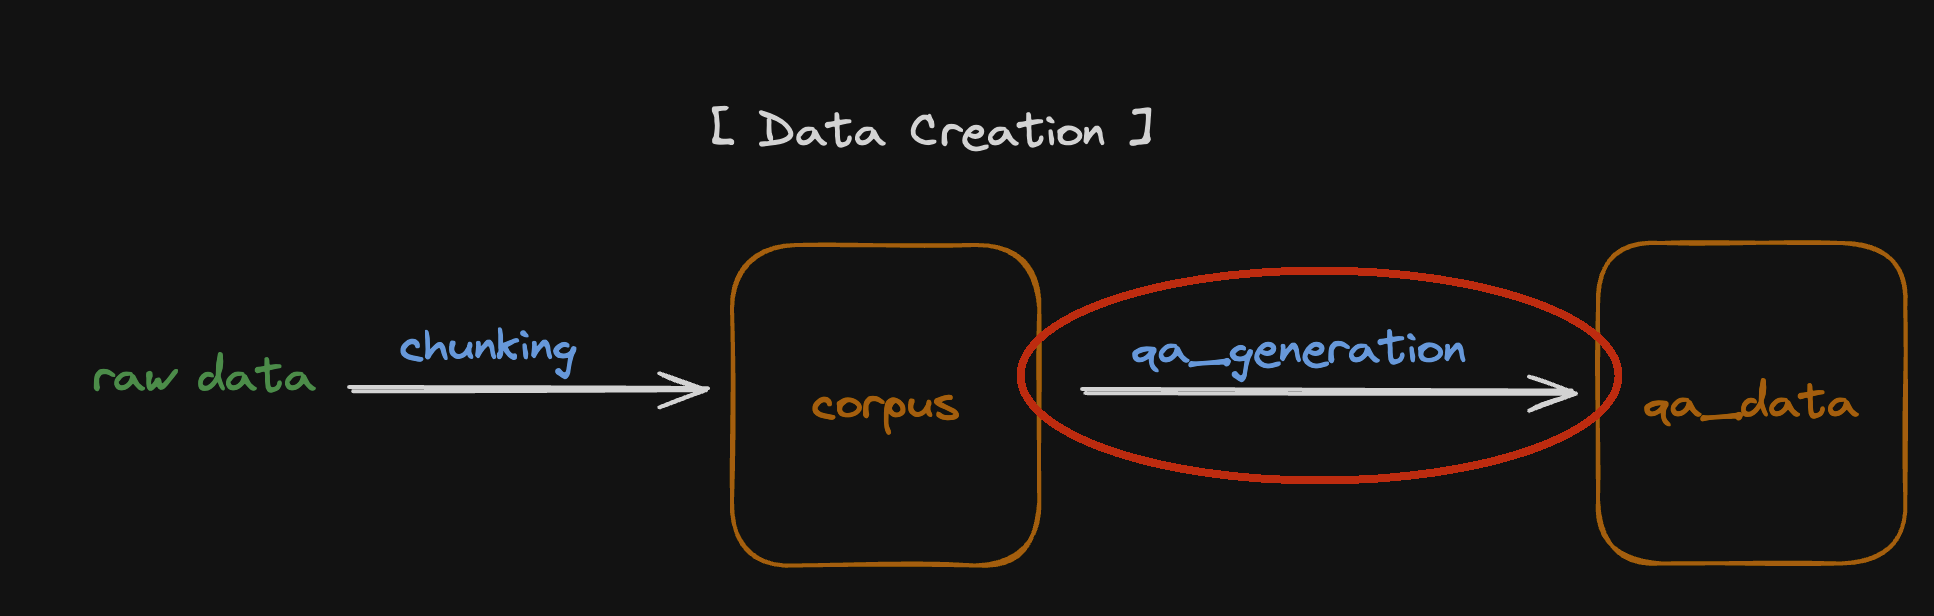
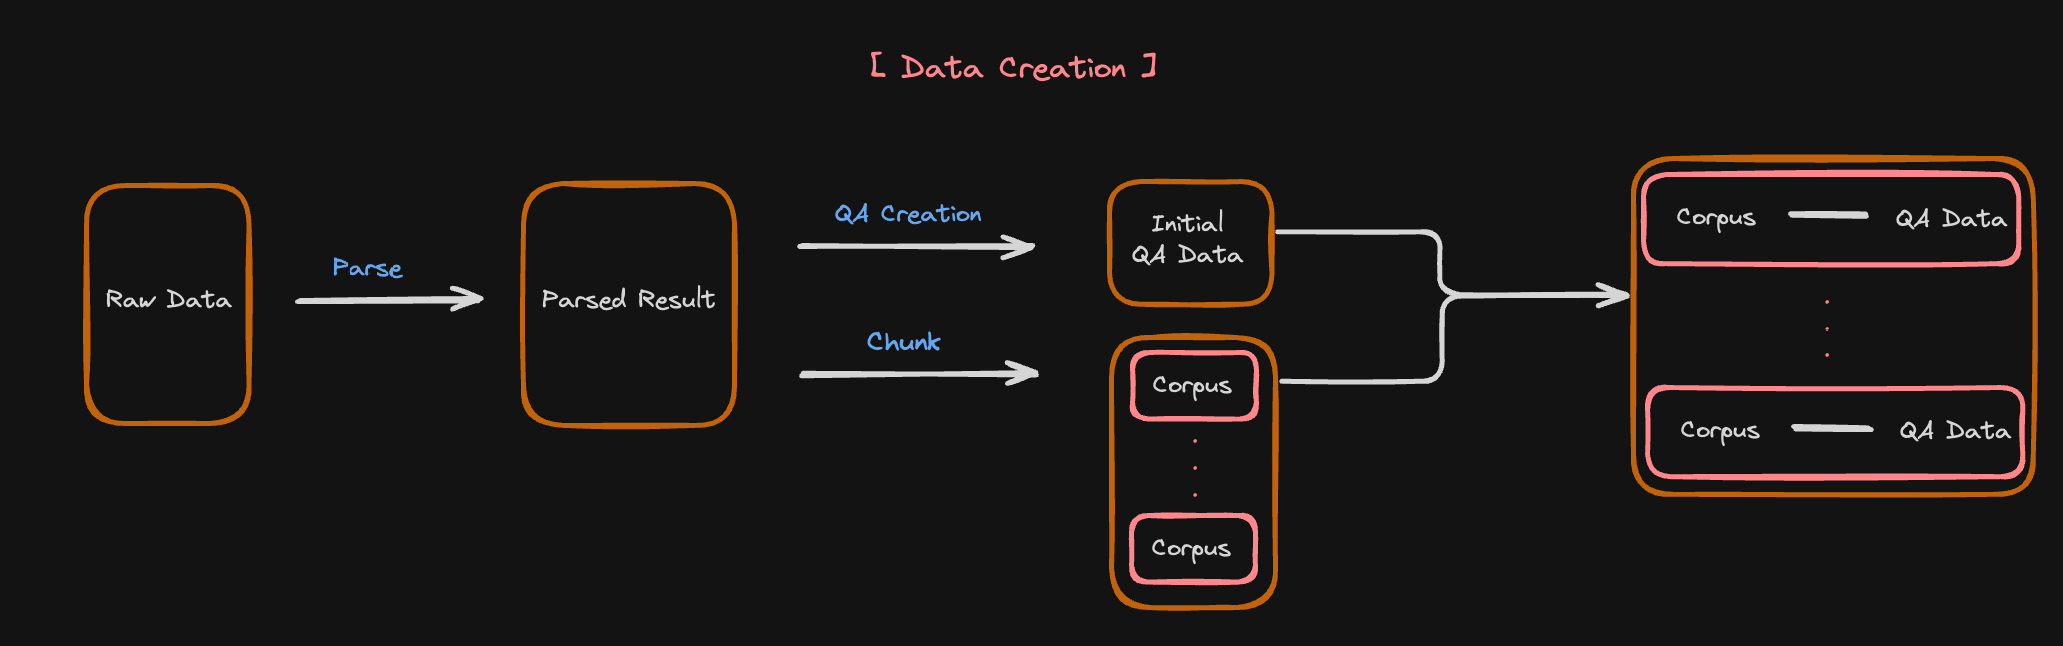
Add baseline beta docs (#710)
* Add chunk baseline code

* add test code (not complete)

* complete llama index chunk test code

* add chunker test code

* add maek metadata_list function

* delete langchain at get chunk instance

* add rst file

* add langchain_chunk and its test code

* delete kowipiepy at chunk install list at pyproject.toml

* add annotation and use LazyInit at kiwi sentence splitter

* delete unused test code

* add return "path", "start_end_idx" at chunk

* move get_start_end_idx func from llama_index_chunk.py to data/utils/util.py

* change get_start_end_idx func to use find

* add return type "path" and "start_end_idx"

* delete chunk_type parameter and add langchain embedding model at init

* add chunk = ["langchain-experimental"] at pyproject.toml

* change expect_character_idx end id

* add rst file

* delete async

* delete semantic chunking and delete langchain-experimental

* delete async logic at langchain chunk

* just commit

* add new data_creation.png

* create qa_creation folder and add qa_creation.md and answer_gen.md

* Write langchain_parse.md

* first baseline docs

diff --git a/autorag/data/__init__.py b/autorag/data/__init__.py
@@ -42,7 +42,6 @@ parse_modules = {
 	"pypdf": PyPDFLoader,
 	"pymupdf": PyMuPDFLoader,
 	"unstructuredpdf": UnstructuredPDFLoader,
-	"upstagelayoutanalysis": UpstageLayoutAnalysisLoader,
 	# Common File Types
 	# 1. CSV
 	"csv": CSVLoader,
@@ -57,6 +56,7 @@ parse_modules = {
 	# 6. All files
 	"directory": DirectoryLoader,
 	"unstructured": UnstructuredLoader,
+	"upstagelayoutanalysis": UpstageLayoutAnalysisLoader,
 }
 
 chunk_modules = {

diff --git a/docs/source/data_creation/beta/parse/langchain_parse.md b/docs/source/data_creation/beta/parse/langchain_parse.md
@@ -1,0 +1,123 @@
+# Langchain Parse
+
+Parse raw documents to use
+[langchain document_loaders](https://python.langchain.com/v0.2/docs/integrations/document_loaders/#all-document-loaders).
+
+## Available Parse Method by File Type
+
+### 1. PDF
+
+- [PDFMiner](https://python.langchain.com/v0.2/docs/integrations/document_loaders/pdfminer/)
+- [PDFPlumber](https://python.langchain.com/v0.2/docs/integrations/document_loaders/pdfplumber/)
+- [PyPDFium2](https://python.langchain.com/v0.2/docs/integrations/document_loaders/pypdfium2/)
+- [PyPDF](https://python.langchain.com/v0.2/docs/integrations/document_loaders/pypdfloader/)
+- [PyMuPDF](https://python.langchain.com/v0.2/docs/integrations/document_loaders/pymupdf/)
+- [UnstructuredPDF](https://python.langchain.com/v0.2/docs/integrations/document_loaders/unstructured_pdfloader/)
+
+#### Example YAML
+
+```yaml
+modules:
+  - module_type: langchain_parse
+    parse_method: [ pdfminer, pdfplumber ]
+```
+
+### 2. CSV
+
+- [CSV](https://python.langchain.com/v0.2/docs/integrations/document_loaders/csv/)
+
+#### Example YAML
+
+```yaml
+modules:
+  - module_type: langchain_parse
+    parse_method: csv
+```
+
+### 3. JSON
+
+- [JSON](https://python.langchain.com/v0.2/docs/integrations/document_loaders/json/)
+
+#### ❗Must have Parameter
+
+- jq_schema: JSON Query schema to extract the content from the JSON file.
+
+#### Example YAML
+
+```yaml
+  - module_type: langchain_parse
+    parse_method: json
+    jq_schema: .messages[].content
+```
+
+### 4. Markdown
+
+- [UnstructuredMarkdown](https://python.langchain.com/v0.2/docs/integrations/document_loaders/unstructured_markdown/)
+
+#### Example YAML
+
+```yaml
+  - module_type: langchain_parse
+    parse_method: unstructuredmarkdown
+```
+
+### 5. HTML
+
+- [BSHTML](https://python.langchain.com/v0.2/docs/integrations/document_loaders/bshtml/)
+
+#### Example YAML
+
+```yaml
+  - module_type: langchain_parse
+    parse_method: bshtml
+```
+
+### 6. XML
+
+- [UnstructuredXML](https://python.langchain.com/v0.2/docs/integrations/document_loaders/xml/)
+
+#### Example YAML
+
+```yaml
+  - module_type: langchain_parse
+    parse_method: unstructuredxml
+```
+
+### 7. All files
+
+- [Directory](https://python.langchain.com/v0.2/docs/how_to/document_loader_directory/)
+
+#### 📌 API Needed
+
+You need to have an API key to use the following document loaders.
+- [Unstructured](https://python.langchain.com/v0.2/docs/integrations/document_loaders/unstructured_file/)
+  - `UNSTRUCTURED_API_KEY` should be set in the environment variable.
+- [UpstageLayoutAnalysis](https://python.langchain.com/v0.2/docs/integrations/document_loaders/upstage/)
+  - `UPSTAGE_API_KEY` should be set in the environment variable.
+
+#### Example YAML
+
+```yaml
+  - module_type: langchain_parse
+    parse_method: upstagelayoutanalysis
+```
+
+## Using Parse Method that is not in the Available Parse Method
+
+You can find more information about the document loaders at
+[here](https://python.langchain.com/v0.2/docs/integrations/document_loaders/#all-document-loaders)
+
+### How to Use
+
+If you want to use `PyPDFDirectoryLoader` that is not in the available parse method, you can use the following code.
+
+```python
+from autorag.data import parse_modules
+from langchain_community.document_loaders import PyPDFDirectoryLoader
+
+parse_modules["pypdfdirectory"] = PyPDFDirectoryLoader
+```
+
+```{attention}
+The key value in parse_modules must always be written in lowercase.
+```

diff --git a/docs/source/data_creation/beta/tutorial.md b/docs/source/data_creation/beta/tutorial.md
@@ -1,37 +1,36 @@
-# Getting Started
+# Start creating your own evaluation data
 
-## Parsing
+## Overview
+For the evaluation of RAGs we need data, but in most cases we have little or no satisfactory data.
 
-## QA Creation
+However, since the advent of LLM, creating synthetic data has become one of the good solutions to this problem.
+
+The following guide covers how to use LLM to create data in a form that AutoRAG can use.
+
+---
+![Data Creation](../../_static/data_creation.png)
+
+AutoRAG aims to work with Python’s ‘primitive data types’ for scalability and convenience.
+
+Therefore, to use AutoRAG, you need to convert your raw data into `corpus data`  and `qa data` to our [data format](./data_format.md).
+
+## 1. Parse
+
+## 2. QA Creation
+
+### Question Generation
 
 If you want to learn about more question generation type, check [here](./query_gen.md).
 
 
 ### Answer Creation
 
-You can do like this.
 
-```python
-from autorag.data.beta.schema import QA
-from autorag.data.beta.generation_gt.openai_gen_gt import make_basic_gen_gt
-from openai import AsyncOpenAI
+### Filter
 
-client = AsyncOpenAI()
-qa = QA(qa_df)
-result_qa = qa.batch_apply(make_basic_gen_gt, client=client)
-```
 
-Or using LlamaIndex
+## 3. Chunk
 
-```python
-from autorag.data.beta.schema import QA
-from autorag.data.beta.generation_gt.llama_index_gen_gt import make_basic_gen_gt
-from llama_index.llms.openai import OpenAI
 
-llm = OpenAI()
 
-qa = QA(qa_df)
-result_qa = qa.batch_apply(make_basic_gen_gt, llm=llm)
-```
-
-## Chunking
+## 4. QA - Corpus mapping

diff --git a/docs/source/data_creation/beta/parse/parse.md b/docs/source/data_creation/beta/parse/parse.md
@@ -1,0 +1,27 @@
+# Parse
+
+Using only YAML files, you can easily use the various document loaders of the langchain.
+The parsed result is saved according to the data format used by AutoRAG.
+
+## Output Columns
+
+- texts: Parsed text from the document.
+- path: Path of the document.
+- pages: Number of pages in the document. Contains page if parsing on a per-page basis, otherwise -1.
+    - Modules that parse per page: [ `clova`, `table_hybrid_parse` ]
+    - Modules that don't parse on a per-page basis: [ `langchain_parse`, `llama_parse` ]
+- last_modified_datetime: Last modified datetime of the document.
+
+##
+
+#### Supported Modules
+
+```{toctree}
+---
+maxdepth: 1
+---
+langchain_parse.md
+llama_parse.md
+clova.md
+table_hybrid_parse.md
+```

diff --git a/docs/source/data_creation/beta/qa_creation/answer_gen.md b/docs/source/data_creation/beta/qa_creation/answer_gen.md
@@ -1,0 +1,28 @@
+# Answer Generation
+
+## Overview
+
+## Usage
+
+```python
+from autorag.data.beta.schema import QA
+from autorag.data.beta.generation_gt.openai_gen_gt import make_basic_gen_gt
+from openai import AsyncOpenAI
+
+client = AsyncOpenAI()
+qa = QA(qa_df)
+result_qa = qa.batch_apply(make_basic_gen_gt, client=client)
+```
+
+Or using LlamaIndex
+
+```python
+from autorag.data.beta.schema import QA
+from autorag.data.beta.generation_gt.llama_index_gen_gt import make_basic_gen_gt
+from llama_index.llms.openai import OpenAI
+
+llm = OpenAI()
+
+qa = QA(qa_df)
+result_qa = qa.batch_apply(make_basic_gen_gt, llm=llm)
+```

diff --git a/docs/source/data_creation/beta/parse/llama_parse.md b/docs/source/data_creation/beta/parse/llama_parse.md
@@ -1,0 +1,25 @@
+# Llama Parse
+
+Parse raw documents to use
+[Llama Parse](https://github.com/run-llama/llama_parse).
+
+## Language Support
+
+You can find more information about the supported languages at
+[here](https://github.com/run-llama/llama_parse/blob/main/llama_parse/utils.py#L16)
+
+You can set language to use `language` parameter.
+
+## Table Extraction
+
+
+
+
+## Example YAML
+
+```yaml
+modules:
+  - module_type: llama_parse
+    result_type: markdown
+    language: ko
+```

diff --git a/docs/source/data_creation/beta/data_creation.md b/docs/source/data_creation/beta/data_creation.md
@@ -38,9 +38,10 @@ Plus, you can specify the batch size.
 
 ```{toctree}
 ---
-maxdepth: 1
+maxdepth: 2
 ---
 tutorial.md
-query_gen.md
-filter.md
+qa_creation/qa_creation.md
+chunk/chunk.md
+parse/parse.md
 ```

diff --git a/docs/source/data_creation/beta/chunk/chunk.md b/docs/source/data_creation/beta/chunk/chunk.md
@@ -1,0 +1,13 @@
+# Chunk
+
+
+
+#### Supported Modules
+
+```{toctree}
+---
+maxdepth: 1
+---
+langchain_chunk.md
+llama_index_chunk.md
+```

diff --git a/docs/source/data_creation/beta/parse/table_hybrid_parse.md b/docs/source/data_creation/beta/parse/table_hybrid_parse.md
@@ -1,0 +1,1 @@
+# Table Hybrid Parse

diff --git a/docs/source/data_creation/beta/chunk/llama_index_chunk.md b/docs/source/data_creation/beta/chunk/llama_index_chunk.md
@@ -1,0 +1,1 @@
+# Llama Index Chunk

diff --git a/docs/source/data_creation/beta/chunk/langchain_chunk.md b/docs/source/data_creation/beta/chunk/langchain_chunk.md
@@ -1,0 +1,1 @@
+# Langchain Chunk

diff --git a/docs/source/data_creation/beta/parse/clova.md b/docs/source/data_creation/beta/parse/clova.md
@@ -1,0 +1,1 @@
+# Clova
